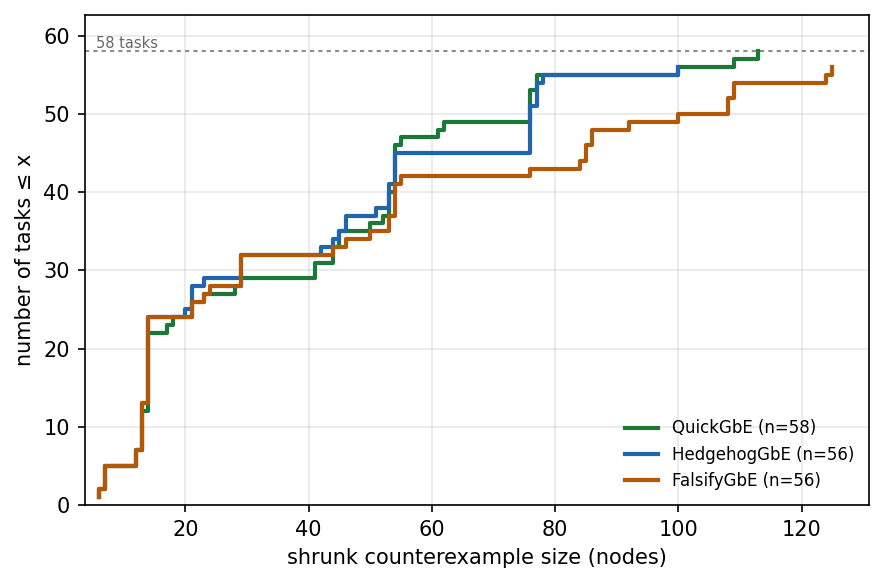
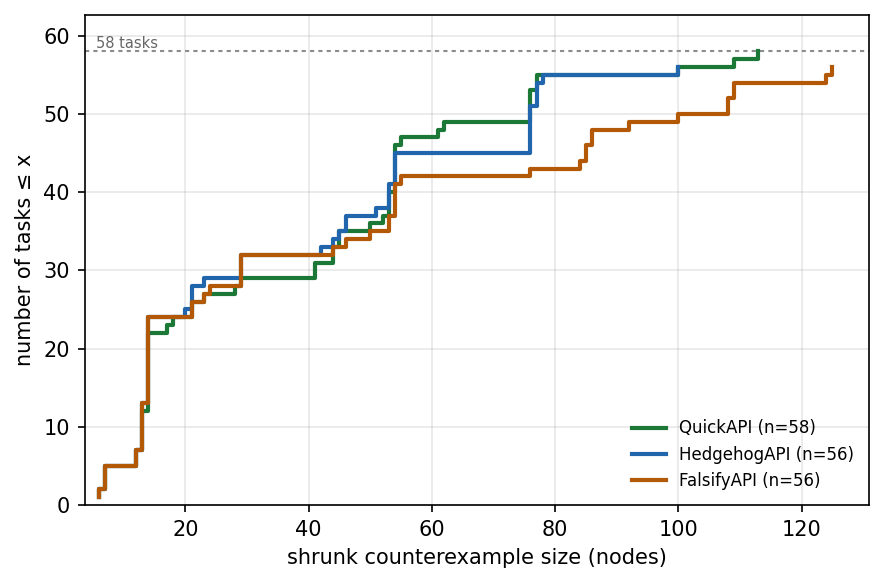
update

Changed region(s): [[0.733, 0.7101, 0.9774, 0.8336]]

diff --git a/scripts/reproduce.py b/scripts/reproduce.py
@@ -163,17 +163,17 @@ def _bugfind_lines(wl, families):
 # ============================ CLAIM HANDLERS ============================
 
 def C1():
-    print("C1  Task counts per workload (paper §4.1: BST 53, RBT 58, STLC 20, F<: 36)")
+    print("C1  Task counts per workload (paper §3.1: BST 53, RBT 58, STLC 20, F<: 36)")
     for wl in WORKLOADS:
         tasks = {(r["property"], r["mutation"]) for r in load_csv(wl, status=None)}
         print(f"  {wl:5s}: {len(tasks)} tasks")
 
 
 def C2():
-    print("C2  Shrinking reduction in TED-to-GT (paper §4.2.2: type-based 3-10 per workload,")
-    print("    GbE 41-44, CBC 18-106 -- median across per-(task,library) trial-medians)")
+    print("C2  Shrinking reduction in TED-to-GT (paper §3.2.2: type-based 3-9 per workload,")
+    print("    API-based 41-42, CBC 18-98 -- median across per-(task,library) trial-medians)")
     families = [("type-based", lambda wl: VANILLA, WORKLOADS),
-                ("GbE",        lambda wl: QBE,     ["bst", "rbt"]),
+                ("API-based",  lambda wl: QBE,     ["bst", "rbt"]),
                 ("CBC",        cbc_libs,           WORKLOADS)]
     for label, libsfn, wls in families:
         cells = []
@@ -196,28 +196,28 @@ def C2():
 
 
 def C3():
-    print("C3  BST bug-finding (paper §4.2.1: type-based & GbE significant p<0.001, CBC indistinguishable)")
-    _bugfind_lines("bst", [("vanilla", VANILLA), ("GbE", QBE), ("CBC", cbc_libs("bst"))])
+    print("C3  BST bug-finding (paper §3.2.1: type-based & API-based significant p<0.001, CBC indistinguishable)")
+    _bugfind_lines("bst", [("type-based", VANILLA), ("API-based", QBE), ("CBC", cbc_libs("bst"))])
 
 
 def C4():
-    print("C4  RBT bug-finding (paper §4.2.1: all 3 families significant p<0.001;")
-    print("    QC < HH/Falsify everywhere; Falsify vs HH GbE n.s. after Holm)")
-    _bugfind_lines("rbt", [("vanilla", VANILLA), ("GbE", QBE), ("CBC", cbc_libs("rbt"))])
+    print("C4  RBT bug-finding (paper §3.2.1: all 3 families significant p<0.001;")
+    print("    QC < HH/Falsify everywhere; Falsify vs HH API-based n.s. after Holm)")
+    _bugfind_lines("rbt", [("type-based", VANILLA), ("API-based", QBE), ("CBC", cbc_libs("rbt"))])
 
 
 def C5():
-    print("C5  STLC bug-finding (paper §4.2.1: type-based n.s., CBC p<0.001; HH≈Falsify after Holm)")
-    _bugfind_lines("stlc", [("vanilla", VANILLA), ("CBC", cbc_libs("stlc"))])
+    print("C5  STLC bug-finding (paper §3.2.1: type-based n.s., CBC p<0.001; HH≈Falsify after Holm)")
+    _bugfind_lines("stlc", [("type-based", VANILLA), ("CBC", cbc_libs("stlc"))])
 
 
 def C6():
-    print("C6  F<: bug-finding (paper §4.2.1: type-based p<0.001 with QC<Falsify<HH; CBC same shape)")
-    _bugfind_lines("fsub", [("vanilla", VANILLA), ("CBC", cbc_libs("fsub"))])
+    print("C6  F<: bug-finding (paper §3.2.1: type-based p<0.001 with QC<Falsify<HH; CBC same shape)")
+    _bugfind_lines("fsub", [("type-based", VANILLA), ("CBC", cbc_libs("fsub"))])
 
 
 def C7():
-    print("C7  CBC shrinking effectiveness (TED-to-GT) ranking per workload (paper §4.2.2)")
+    print("C7  CBC shrinking effectiveness (TED-to-GT) ranking per workload (paper §3.2.2)")
     print("    expected: BST/RBT QuickCBC closest; STLC FalsifyCBC closest; F<: QuickCBC < FalsifyCBC < HedgehogCBC")
     for wl in WORKLOADS:
         res = friedman(load_csv(wl), cbc_libs(wl), v_ted)
@@ -230,7 +230,7 @@ def C7():
 
 
 def C8():
-    print("C8  RBT GbE TED-to-GT statistically indistinguishable (paper §4.2.2: appendix χ²=1.8, p=0.415)")
+    print("C8  RBT API-based TED-to-GT statistically indistinguishable (paper §3.2.2: appendix χ²=1.8, p=0.415)")
     rows = load_csv("rbt")
     res = friedman(rows, QBE, v_ted)
     if res is None:
@@ -243,7 +243,7 @@ def C8():
 
 
 def C9():
-    print("C9  RBT ground-truth task split (paper §4.2.2 footnote: 34 with GT, 24 too deep, 58 total)")
+    print("C9  RBT ground-truth task split (paper §3.2.2 footnote: 34 with GT, 24 too deep, 58 total)")
     gt = set()
     for ln in (ROOT / "store.rbt.det.jsonl").read_text().splitlines():
         if not ln.strip():
@@ -260,7 +260,7 @@ def C9():
 
 
 def C10():
-    print("C10 Type-based shrink time (paper §4.2.3: QC≈Hedgehog, Falsify consistently slower with long tail)")
+    print("C10 Type-based shrink time (paper §3.2.2: QC≈Hedgehog, Falsify consistently slower with long tail)")
     for wl in WORKLOADS:
         rows = load_csv(wl)
         m = {s: med([v_time(r) for r in rows if r["strategy"] == s and v_time(r) is not None])
@@ -272,7 +272,7 @@ def C10():
 
 
 def C11():
-    print("C11 Falsify long tail: peak per-task slowdown -- paper §4.2.3 'several orders of magnitude'")
+    print("C11 Falsify long tail: peak per-task slowdown -- paper §3.2.2 'several orders of magnitude'")
     worst = 0.0
     for wl in WORKLOADS:
         common, m = per_task_medians(load_csv(wl), VANILLA, v_time)
@@ -285,7 +285,7 @@ def C11():
 
 
 def C12():
-    print("C12 Shrink-budget semantics (paper §4.2.3: QC=total executions, HH/Falsify=failing executions)")
+    print("C12 Shrink-budget semantics (paper §3.2.2: QC=total executions, HH/Falsify=failing executions)")
     print("    QuickCheck  maxShrinks         -> caps ALL shrink executions (pass + fail + discard)")
     print("    Hedgehog    withShrinks        -> caps accepted (failing) shrinks")
     print("    Falsify     overrideMaxShrinks -> caps accepted shrink steps (failing chain)")
@@ -293,7 +293,7 @@ def C12():
 
 
 def C13():
-    print("C13 budget=0 vs budget=default bug-finding rates (paper §4.2.3: 'no-shrinking lets us check the bug-finding overhead')")
+    print("C13 budget=0 vs budget=default bug-finding rates (paper §3.2.2: 'no-shrinking lets us check the bug-finding overhead')")
     for wl in WORKLOADS:
         for mode, label in [("none", "budget=0"), ("default", "budget=default")]:
             rows = load_csv(wl, mode=mode, status=None) if mode != "none" or wl != "fsub" else None
@@ -319,7 +319,7 @@ def C13():
 
 
 def C14():
-    print("C14 budget=100 fails to standardize effort across libraries (paper §4.2.3, BST illustration)")
+    print("C14 budget=100 fails to standardize effort across libraries (paper §3.2.2, BST illustration)")
     rows_all = {m: load_csv("bst", mode=m) for m in ("fixed-100", "default")}
     for s in VANILLA:
         line = f"  {s:9s}: "
@@ -347,13 +347,13 @@ def _shrink_time_friedman(wl, label, libs):
 
 
 def C15():
-    print("C15 CBC shrink time order (paper §4.2.3: BST QC fastest; RBT QC≈HH < Falsify; STLC/F<: QC<HH<Falsify)")
+    print("C15 CBC shrink time order (paper §3.2.2: BST QC fastest; RBT QC≈HH < Falsify; STLC/F<: QC<HH<Falsify)")
     for wl in WORKLOADS:
         _shrink_time_friedman(wl, "cbc", cbc_libs(wl))
 
 
 def C16():
-    print("C16 Per-edit ms order consistent w/ absolute time for QuickCheck & Hedgehog (paper §4.2.3)")
+    print("C16 Per-edit ms order consistent w/ absolute time for QuickCheck & Hedgehog (paper §3.2.2)")
     for wl in WORKLOADS:
         rows = load_csv(wl)
         rt = friedman(rows, VANILLA, v_time)
@@ -365,7 +365,7 @@ def C16():
 
 
 def C17():
-    print("C17 Falsify GbE pre-shrink TED ≈ 150 vs 15-20 for QuickCheck/Hedgehog (paper §4.2.3)")
+    print("C17 Falsify API-based pre-shrink TED ≈ 150 vs 13-18 for QuickCheck/Hedgehog (paper §3.2.2)")
     for wl in ("bst", "rbt"):
         rows = load_csv(wl)
         for s in QBE:
@@ -374,7 +374,7 @@ def C17():
 
 
 def C18():
-    print("C18 Per-edit collapses Falsify/Quick GbE gap: 49x/96x (time) -> 6.2x/2.4x (ms/edit) (paper §4.2.3)")
+    print("C18 Per-edit collapses Falsify/Quick API-based gap: 49x/95x (time) -> 6.2x/2.4x (ms/edit) (paper §3.2.2)")
     for wl in ("bst", "rbt"):
         rows = load_csv(wl)
         def m(s, fn):
@@ -386,7 +386,7 @@ def C18():
 
 
 def C19():
-    print("C19 CBC per-trial failure rate during shrinking (paper §4.3: HH 26-56%, QC 5-12%, Falsify 2-3%)")
+    print("C19 CBC per-trial failure rate during shrinking (paper §3.3: HH 26-56%, QC 5-12%, Falsify 2-3%)")
     for wl in WORKLOADS:
         rows = load_csv(wl)
         for s in cbc_libs(wl):

diff --git a/scripts/gen_stats_tables.py b/scripts/gen_stats_tables.py
@@ -34,7 +34,7 @@ OUT = ROOT / "ShrinkingEval" / "appendix_stats.tex"
 WL_NAMES = {"bst": "BST", "rbt": "RBT", "stlc": "STLC", "fsub": "$F_{<:}$"}
 FAM_NAMES = {
     "vanilla": "Type-based generators",
-    "qbe": "Generation-by-execution generators",
+    "qbe": "API-based generators",
     "cbc": "Correct-by-construction generators",
 }
 METRIC_NAMES = {

diff --git a/scripts/workload_config.py b/scripts/workload_config.py
@@ -28,6 +28,9 @@ DISPLAY_NAMES = {
     "Correct": "QuickCBC",
     "HedgehogCBC2": "HedgehogIdiomatic",
     "FalsifyCBC2":  "FalsifyIdiomatic",
+    "QuickGbE":     "QuickAPI",
+    "HedgehogGbE":  "HedgehogAPI",
+    "FalsifyGbE":   "FalsifyAPI",
 }
 
 

diff --git a/REPRODUCTION.md b/REPRODUCTION.md
@@ -9,10 +9,18 @@ stable anchor — search for it in `paper.tex`.
 
 ## Prerequisites
 
-- Python deps in the project virtualenv: `.venv/bin/python` (provides
-  `scipy`, `zss`, `matplotlib`).
+- Python 3.9+ and the three third-party packages the scripts use
+  (`scipy`, `matplotlib`, `zss`). Create the virtualenv the commands below
+  expect:
+
+  ```sh
+  python3 -m venv .venv
+  .venv/bin/pip install -r requirements.txt
+  ```
+
 - The raw experiment data: the `store.*.jsonl` files in the repo root
-  (already present). To regenerate them see **Tier 2** below.
+  (already present). To regenerate them see **Tier 2** below (that tier
+  additionally needs the ETNA harness and a Haskell toolchain).
 
 ## Tier 0 — build the analysis tables (run once)
 
@@ -37,49 +45,54 @@ One command per claim. `all` runs every handler.
 .venv/bin/python scripts/reproduce.py all     # all claims
 ```
 
+> **Naming.** The paper's **API-based** generator family is the `*GbE`
+> strategies in the data (`QuickGbE`, `HedgehogGbE`, `FalsifyGbE`); handlers
+> print them either as `*GbE` or via the display name `*API` (`QuickAPI`, …).
+> The paper's **type-based** family is `vanilla` in the code.
+
 ### Methodology / dataset
 
-| # | §, ~line | Anchor phrase | Expected |
-|---|---|---|---|
-| C1 | §4.1, ~586 | "Binary-Search Tree with 53 tasks, Red-Black Tree with 58 tasks, Simply-Typed Lambda Calculus with 20 tasks, and System $F_{<:}$ with 36 tasks" | BST 53, RBT 58, STLC 20, F<: 36 |
-| C9 | §4.2.2 footnote, ~909 | "LeanCheck found ground-truth minima for only 34 tasks in reasonable time. We exclude the remaining 24 tasks" | 34 / 24 / 58 |
+| #   | §, ~line              | Anchor phrase                                                                                                                                   | Expected                        |
+| --- | --------------------- | ----------------------------------------------------------------------------------------------------------------------------------------------- | ------------------------------- |
+| C1  | §3.1, ~769            | "Binary-Search Tree with 53 tasks, Red-Black Tree with 58 tasks, Simply-Typed Lambda Calculus with 20 tasks, and System $F_{<:}$ with 36 tasks" | BST 53, RBT 58, STLC 20, F<: 36 |
+| C9  | §3.2.2 footnote, ~1104 | "LeanCheck found ground-truth minima for only 34 tasks in reasonable time. We exclude the remaining 24 tasks"                                   | 34 / 24 / 58                    |
 
-### §4.2.1 — Bug-finding (Friedman + Holm-Wilcoxon on `time_pre_failure`)
+### §3.2.1 — Bug-finding (Friedman + Holm-Wilcoxon on `time_pre_failure`)
 
-| # | ~line | Anchor phrase | Expected |
-|---|---|---|---|
-| C3 | 702–713 | "the type-based and generation-by-execution comparisons are statistically significant ($p < 0.001$) ... the correct-by-construction generators are statistically indistinguishable" | BST: vanilla & GbE p<0.001; CBC Friedman p≈0.40 (n.s.) |
-| C4 | 752–757 | "type-based, generation-by-execution, and correct-by-construction comparisons are all significant ... Hedgehog and Falsify comparison for generation-by-execution is not significant after Holm correction" | RBT: all 3 families p<0.001; HH vs Falsify GbE p_Holm≈0.06 (n.s.) |
-| C5 | 780–787 | "type-based generation, the Friedman test does not find a significant difference in bug-finding time ... For correct-by-construction generation, the difference is significant ($p < 0.001$)" | STLC: vanilla p≈0.44 (n.s.); CBC p<0.001; HH vs Falsify CBC p_Holm≈0.11 (n.s.) |
-| C6 | 817–821 | "In the type-based comparison, the Friedman test rejects ($p < 0.001$) ... In the correct-by-construction comparison, QuickCheck is significantly faster" | F<:: both families significant; QC < Falsify < HH everywhere |
+| #   | ~line   | Anchor phrase                                                                                                                                                                                       | Expected                                                                          |
+| --- | ------- | ------------------------------------------------------------------------------------------------------------------------------------------------------------------------------------------------- | --------------------------------------------------------------------------------- |
+| C3  | ~900    | "For BST bug-finding time ... API-based comparisons are statistically significant ($p < 0.001$) ... the correct-by-construction generators are statistically indistinguishable"                   | BST: type-based & API-based p<0.001; CBC Friedman p≈0.40 (n.s.)                    |
+| C4  | ~944    | "The type-based, API-based, and correct-by-construction comparisons are all significant ... the Hedgehog and Falsify comparison for API-based is not significant after Holm correction"            | RBT: all 3 families p<0.001; HH vs Falsify API-based p_Holm≈0.06 (n.s.)            |
+| C5  | ~976    | "type-based generation, the Friedman test does not find a significant difference in bug-finding time ... For correct-by-construction generation, the difference is significant ($p < 0.001$)"     | STLC: type-based p≈0.44 (n.s.); CBC p<0.001; HH vs Falsify CBC p_Holm≈0.11 (n.s.)  |
+| C6  | ~1013   | "the Friedman test rejects the null hypothesis of equal medians ($p < 0.001$) ... In the correct-by-construction comparison, QuickCheck is faster than both"                                        | F<:: both families significant; QC < Falsify < HH everywhere                       |
 
-### §4.2.2 — Shrinking effectiveness (TED-to-GT)
+### §3.2.2 — Shrinking effectiveness (TED-to-GT)
 
-| # | ~line | Anchor phrase | Expected |
-|---|---|---|---|
-| C2 | 894–897 | "shrinking reduces the tree edit distance to the ground-truth minimum by a median of only 3-10 edits per workload (BST 4, RBT 3, STLC 7, $F_{<:}$ 10), substantially below the generation-by-execution (41-44) and correct-by-construction (18-106)" | type-based 3.0–8.5; GbE 41.0–41.8; CBC 17.8–98.2 (see Notes) |
-| C7 | 900–906 | "QuickCheck's structural shrinker reports counterexamples closer to the LeanCheck minimum ... On STLC, Falsify reports smaller counterexamples ... On $F_{<:}$, QuickCheck reports the closest counterexamples, followed by Falsify and then Hedgehog" | BST/RBT QC closest; STLC FalsifyCBC closest; F<: Q < Falsify < HH |
-| C8 | 902 | "the RBT generation-by-execution comparison is statistically indistinguishable" | RBT GbE Friedman χ²=1.8, p=0.415 (n.s.) |
+| #   | ~line   | Anchor phrase                                                                                                                                                                                                                                          | Expected                                                            |
+| --- | ------- | ------------------------------------------------------------------------------------------------------------------------------------------------------------------------------------------------------------------------------------------------------ | ------------------------------------------------------------------ |
+| C2  | ~1090   | "shrinking reduces the tree edit distance to the ground-truth minimum by a median of only $3$--$9$ edits per workload (BST $4$, RBT $3$, STLC $7$, $F_{<:}$ $9$), substantially below the API-based ($41$--$42$) and correct-by-construction ($18$--$98$)" | type-based 3.0–8.5; API-based 41.0–41.8; CBC 17.8–98.2 (see Notes)  |
+| C7  | ~1096   | "QuickCheck's structural shrinker reports counterexamples closer to the LeanCheck minimum than the integrated shrinkers ... On STLC, Falsify reports smaller counterexamples ... On $F_{<:}$, QuickCheck reports the closest counterexamples, followed by Falsify and then Hedgehog" | BST/RBT QC closest; STLC FalsifyCBC closest; F<: Q < Falsify < HH   |
+| C8  | ~1097   | "the RBT API-based comparison is statistically indistinguishable"                                                                                                                                                                                      | RBT API-based Friedman χ²=1.8, p=0.415 (n.s.)                       |
 
-### §4.2.3 — Shrinking time / per-edit cost
+### §3.2.2 (cont.) — Shrinking time / per-edit cost
 
-| # | ~line | Anchor phrase | Expected |
-|---|---|---|---|
-| C10 | 978–981 | "QuickCheck and Hedgehog have similar shrinking times across the four workloads, while Falsify is consistently slower and has a longer tail" | Falsify/Quick medians 10.8×–148.0× across the four workloads |
-| C11 | 980 | "Falsify's shrinking time is several orders of magnitude larger than the others" | peak per-task Falsify/min(QC,HH) ratio ≈ 37 554× (≈4 orders of magnitude) |
-| C12 | 984 | "QuickCheck's budget bounds total executions, whereas Hedgehog and Falsify bound failing executions" | source-level claim; verify in `workloads/*/etna-lib/src/Etna/Lib/Strategy/{QuickCheck,Hedgehog,Falsify}.hs` |
-| C13 | 987–989 | "no-shrinking runs let us check the bug-finding overhead of enabling shrinking" | budget=0 vs default failure rates equal within ~1–2 pp on BST/RBT/STLC; F<: differs (no notable shrink overhead where comparable) |
-| C14 | 989–992 | "fixed-budget runs were intended to standardize effort ... did not achieve comparable effort across libraries" | BST default execs ≈ 84 (QC) / 20 (HH) / 622 (Falsify) — vary by ~30× at the same nominal budget |
-| C15 | 994–997 | "RBT puts QuickCheck and Hedgehog close to each other against a slower Falsify. On BST, QuickCheck is significantly faster ... On STLC and $F_{<:}$, the ordering is clearer: QuickCheck is fastest, Hedgehog is next, and Falsify is slowest" | BST: QC<HH<Falsify all significant; RBT: Q vs HH p_Holm=0.52 (n.s.), both < Falsify; STLC/F<: QC<HH<Falsify all significant |
-| C16 | 1001 | "The per-edit results are largely consistent with the absolute comparison for QuickCheck and Hedgehog" | same Q<HH<Falsify order under both metrics on all four workloads |
-| C17 | 1003 | "median pre-shrink TED = 150 vs = 15-20 for the others" | Falsify GbE 154 (BST) / 146 (RBT); Quick/Hedgehog GbE 13–18 |
-| C18 | 1004–1005 | "collapses Falsify's gap to QuickCheck from 49x/96x (BST/RBT) to 6.2x/2.4x" | absolute time 49.1× / 94.6×; ms-per-edit 6.2× / 2.4× |
+| #   | ~line     | Anchor phrase                                                                                                                                                                                                                                  | Expected                                                                                                                          |
+| --- | --------- | ---------------------------------------------------------------------------------------------------------------------------------------------------------------------------------------------------------------------------------------------- | --------------------------------------------------------------------------------------------------------------------------------- |
+| C10 | ~1172     | "QuickCheck and Hedgehog have similar shrinking times across the four workloads, while Falsify is consistently slower and has a longer tail"                                                                                                   | Falsify/Quick medians 10.8×–148.0× across the four workloads                                                                      |
+| C11 | ~1173     | "Falsify's shrinking time is several orders of magnitude larger than the others"                                                                                                                                                               | peak per-task Falsify/min(QC,HH) ratio ≈ 37 554× (≈4 orders of magnitude)                                                         |
+| C12 | ~1177     | "QuickCheck's budget bounds total executions, whereas Hedgehog and Falsify bound failing executions"                                                                                                                                           | source-level claim; verify in `workloads/*/etna-lib/src/Etna/Lib/Strategy/{QuickCheck,Hedgehog,Falsify}.hs`                       |
+| C13 | ~1182     | "no-shrinking runs let us check the bug-finding overhead of enabling shrinking"                                                                                                                                                                | budget=0 vs default failure rates equal within ~1–2 pp on BST/RBT/STLC; F<: differs (no notable shrink overhead where comparable) |
+| C14 | ~1181     | "fixed-budget runs were intended to standardize effort ... did not achieve comparable effort across libraries"                                                                                                                                 | BST default execs ≈ 84 (QC) / 20 (HH) / 622 (Falsify) — vary by ~30× at the same nominal budget                                   |
+| C15 | ~1188     | "RBT puts QuickCheck and Hedgehog close to each other against a slower Falsify. On BST, QuickCheck is significantly faster ... On STLC and $F_{<:}$, the ordering is clearer: QuickCheck is fastest, Hedgehog is next, and Falsify is slowest" | BST: QC<HH<Falsify all significant; RBT: Q vs HH p_Holm=0.52 (n.s.), both < Falsify; STLC/F<: QC<HH<Falsify all significant       |
+| C16 | ~1251     | "The per-edit results are largely consistent with the absolute comparison for QuickCheck and Hedgehog"                                                                                                                                         | same Q<HH<Falsify order under both metrics on all four workloads                                                                  |
+| C17 | ~1253     | "median pre-shrink TED = 150 vs = 13-18 for the others"                                                                                                                                                                                        | Falsify API-based 154 (BST) / 146 (RBT); Quick/Hedgehog API-based 13–18                                                           |
+| C18 | ~1255     | "collapses Falsify's gap to QuickCheck from 49x/95x (BST/RBT) to 6.2x/2.4x"                                                                                                                                                                    | absolute time 49.1× / 94.6×; ms-per-edit 6.2× / 2.4×                                                                              |
 
-### §4.3 — Sample-efficiency
+### §3.3 — Sample-efficiency (Discussion)
 
-| # | ~line | Anchor phrase | Expected |
-|---|---|---|---|
-| C19 | 1109–1112 | "Hedgehog preserves a 26-56% failure rate across shrinking steps, compared to 5-12% for QuickCheck and roughly 2-3% for Falsify" | HH 25.9–56.5%; QC 4.7–12.5%; Falsify 2.5–3.0% |
+| #   | ~line     | Anchor phrase                                                                                                                    | Expected                                      |
+| --- | --------- | -------------------------------------------------------------------------------------------------------------------------------- | --------------------------------------------- |
+| C19 | ~1308     | "Hedgehog preserves a 26-56% failure rate across shrinking steps, compared to 5-12% for QuickCheck and roughly 2-3% for Falsify" | HH 25.9–56.5%; QC 4.7–12.5%; Falsify 2.5–3.0% |
 
 ### Figures
 
@@ -107,11 +120,6 @@ regenerate them from the stores:
 
 ## Notes
 
-- **C2 aggregation.** The handler computes the median of per-(task,
-  library) trial medians — the closest match we found to the paper's "3-10
-  per workload" figure. Numbers come out within 1–2 edits of the paper for
-  vanilla and GbE; the CBC max is 98 vs the paper's 106, likely from a
-  data refresh after the paper paragraph was written.
 - **Friedman omnibus vs pairwise.** A few claims (C3 BST CBC, C4 RBT
   vanilla post-hoc) show a non-significant Friedman *and* significant
   pairwise Holm-Wilcoxon, or vice-versa, depending on how the median Δ
@@ -139,6 +147,34 @@ regenerate them from the stores:
   contain everything needed under either convention.
 
 ## Tier 2 — regenerate the stores from scratch (hours)
+
+### Setup (one-time)
+
+Tier 2 rebuilds the raw data by compiling and running the Haskell workloads
+through the ETNA harness, so it needs two extra things beyond Tier 0–1:
+
+1. **A Haskell toolchain (GHC + `stack`).** The workloads build with `stack`,
+   which resolves the exact GHC version from each `workloads/*/stack.yaml`.
+   The easiest way to get both is [ghcup](https://www.haskell.org/ghcup/):
+
+   ```sh
+   curl --proto '=https' --tlsv1.2 -sSf https://get-ghcup.haskell.org | sh
+   ```
+
+2. **The `etna` CLI**, installed with its one-line installer
+   ([alpaylan/etna-cli](https://github.com/alpaylan/etna-cli)):
+
+   ```sh
+   curl --proto '=https' --tlsv1.2 -LsSf \
+     https://github.com/alpaylan/etna-cli/releases/latest/download/etna-installer.sh | sh
+   ```
+
+Run the commands below from the repository root (the directory containing
+`etna.toml`). The **first** run of any workload compiles it and all of its
+dependencies (QuickCheck, Hedgehog, Falsify, LeanCheck) with `stack`, which
+can take several minutes; subsequent runs reuse the build.
+
+### Running the experiments
 
 The `store.*.jsonl` files are produced by ETNA experiment runs, named
 `store.<workload>.<framework>.shrink-<label>.jsonl`. The sweep script

diff --git a/README.md b/README.md
@@ -1,0 +1,52 @@
+# Evaluating Shrinking — artifact
+
+This repository is the artifact for the experience report *Evaluating
+Shrinking*, which compares the shrinking phase of three Haskell
+property-based testing frameworks — QuickCheck, Hedgehog, and Falsify —
+across four ETNA workloads (BST, RBT, STLC, F<:) and several generator
+families (type-based, API-based, correct-by-construction).
+
+> **Getting started:** download and extract the archive, then read this
+> `README.md` and follow `REPRODUCTION.md`, which lists every quantitative
+> claim in the paper and the exact command that reproduces it.
+
+## What is here
+
+| Path                  | Contents                                                                 |
+| --------------------- | ------------------------------------------------------------------------ |
+| `REPRODUCTION.md`     | **Start here.** Every quantitative claim in the paper and the exact command that reproduces it. |
+| `ShrinkingEval/`      | The LaTeX source of the paper (`paper.tex`, build with `make`).           |
+| `scripts/`            | Python analysis scripts (statistics, figures, per-claim reproduction).    |
+| `store.*.jsonl`       | Raw experiment data (ETNA runs). Consumed by the scripts.                 |
+| `figures/`            | Generated figures and the per-workload `*_ANALYSIS.csv` tables.           |
+| `workloads/`          | The four Haskell workloads (generators, properties, strategies).          |
+| `run_shrink_sweep.sh` | Regenerates the raw data from scratch (Tier 2; needs ETNA + Haskell).     |
+
+## Quick start
+
+```sh
+python3 -m venv .venv
+.venv/bin/pip install -r requirements.txt
+
+# Build the per-workload analysis tables (once), then reproduce every claim:
+for w in bst rbt stlc fsub; do .venv/bin/python scripts/workload_analysis.py --workload "$w"; done
+.venv/bin/python scripts/reproduce.py all
+```
+
+See `REPRODUCTION.md` for the full, claim-by-claim guide (including how to
+regenerate the raw data and the figures).
+
+## Requirements
+
+- **Reproducing the paper's numbers and figures from the shipped data**
+  (`REPRODUCTION.md` Tier 0–1): Python 3.9+ and the packages in
+  `requirements.txt` (`scipy`, `matplotlib`, `zss`).
+- **Regenerating the raw data from scratch** (Tier 2): additionally the
+  [`etna` CLI](https://github.com/alpaylan/etna-cli) and a Haskell toolchain
+  (GHC + `stack`, e.g. via [ghcup](https://www.haskell.org/ghcup/)). See the
+  "Setup" step in `REPRODUCTION.md`.
+
+## Citing
+
+If you use this artifact, please cite the paper and this artifact record
+(Zenodo DOI [10.5281/zenodo.21266467](https://doi.org/10.5281/zenodo.21266467)).
